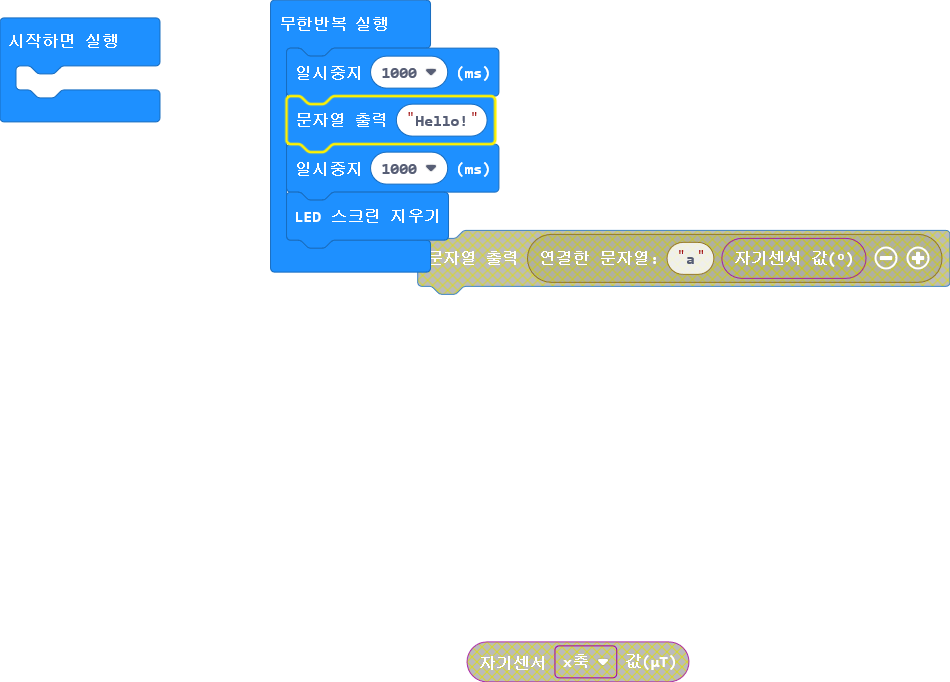
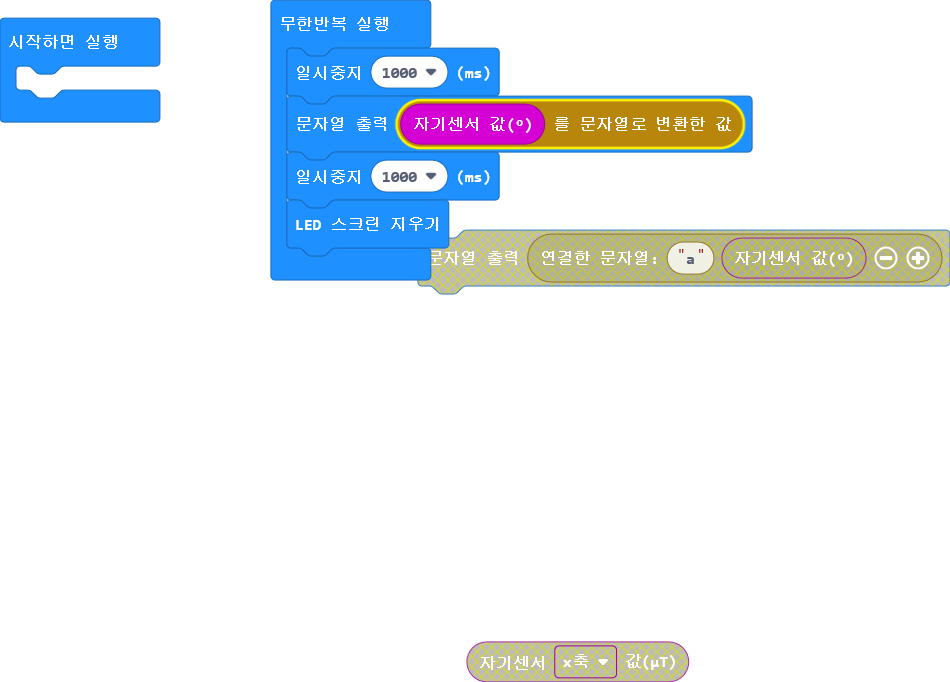
main.blocks, main.ts 업데이트하기

Changed region(s): [[0.2747, 0.0924, 1.0, 0.4311], [0.0916, 0.0308, 0.1221, 0.0924], [0.0305, 0.0308, 0.0611, 0.0616]]

diff --git a/main.ts b/main.ts
@@ -1,6 +1,6 @@
 basic.forever(function () {
     basic.pause(1000)
-    basic.showString("Hello!")
+    basic.showString(convertToText(input.compassHeading()))
     basic.pause(1000)
     basic.clearScreen()
 })
